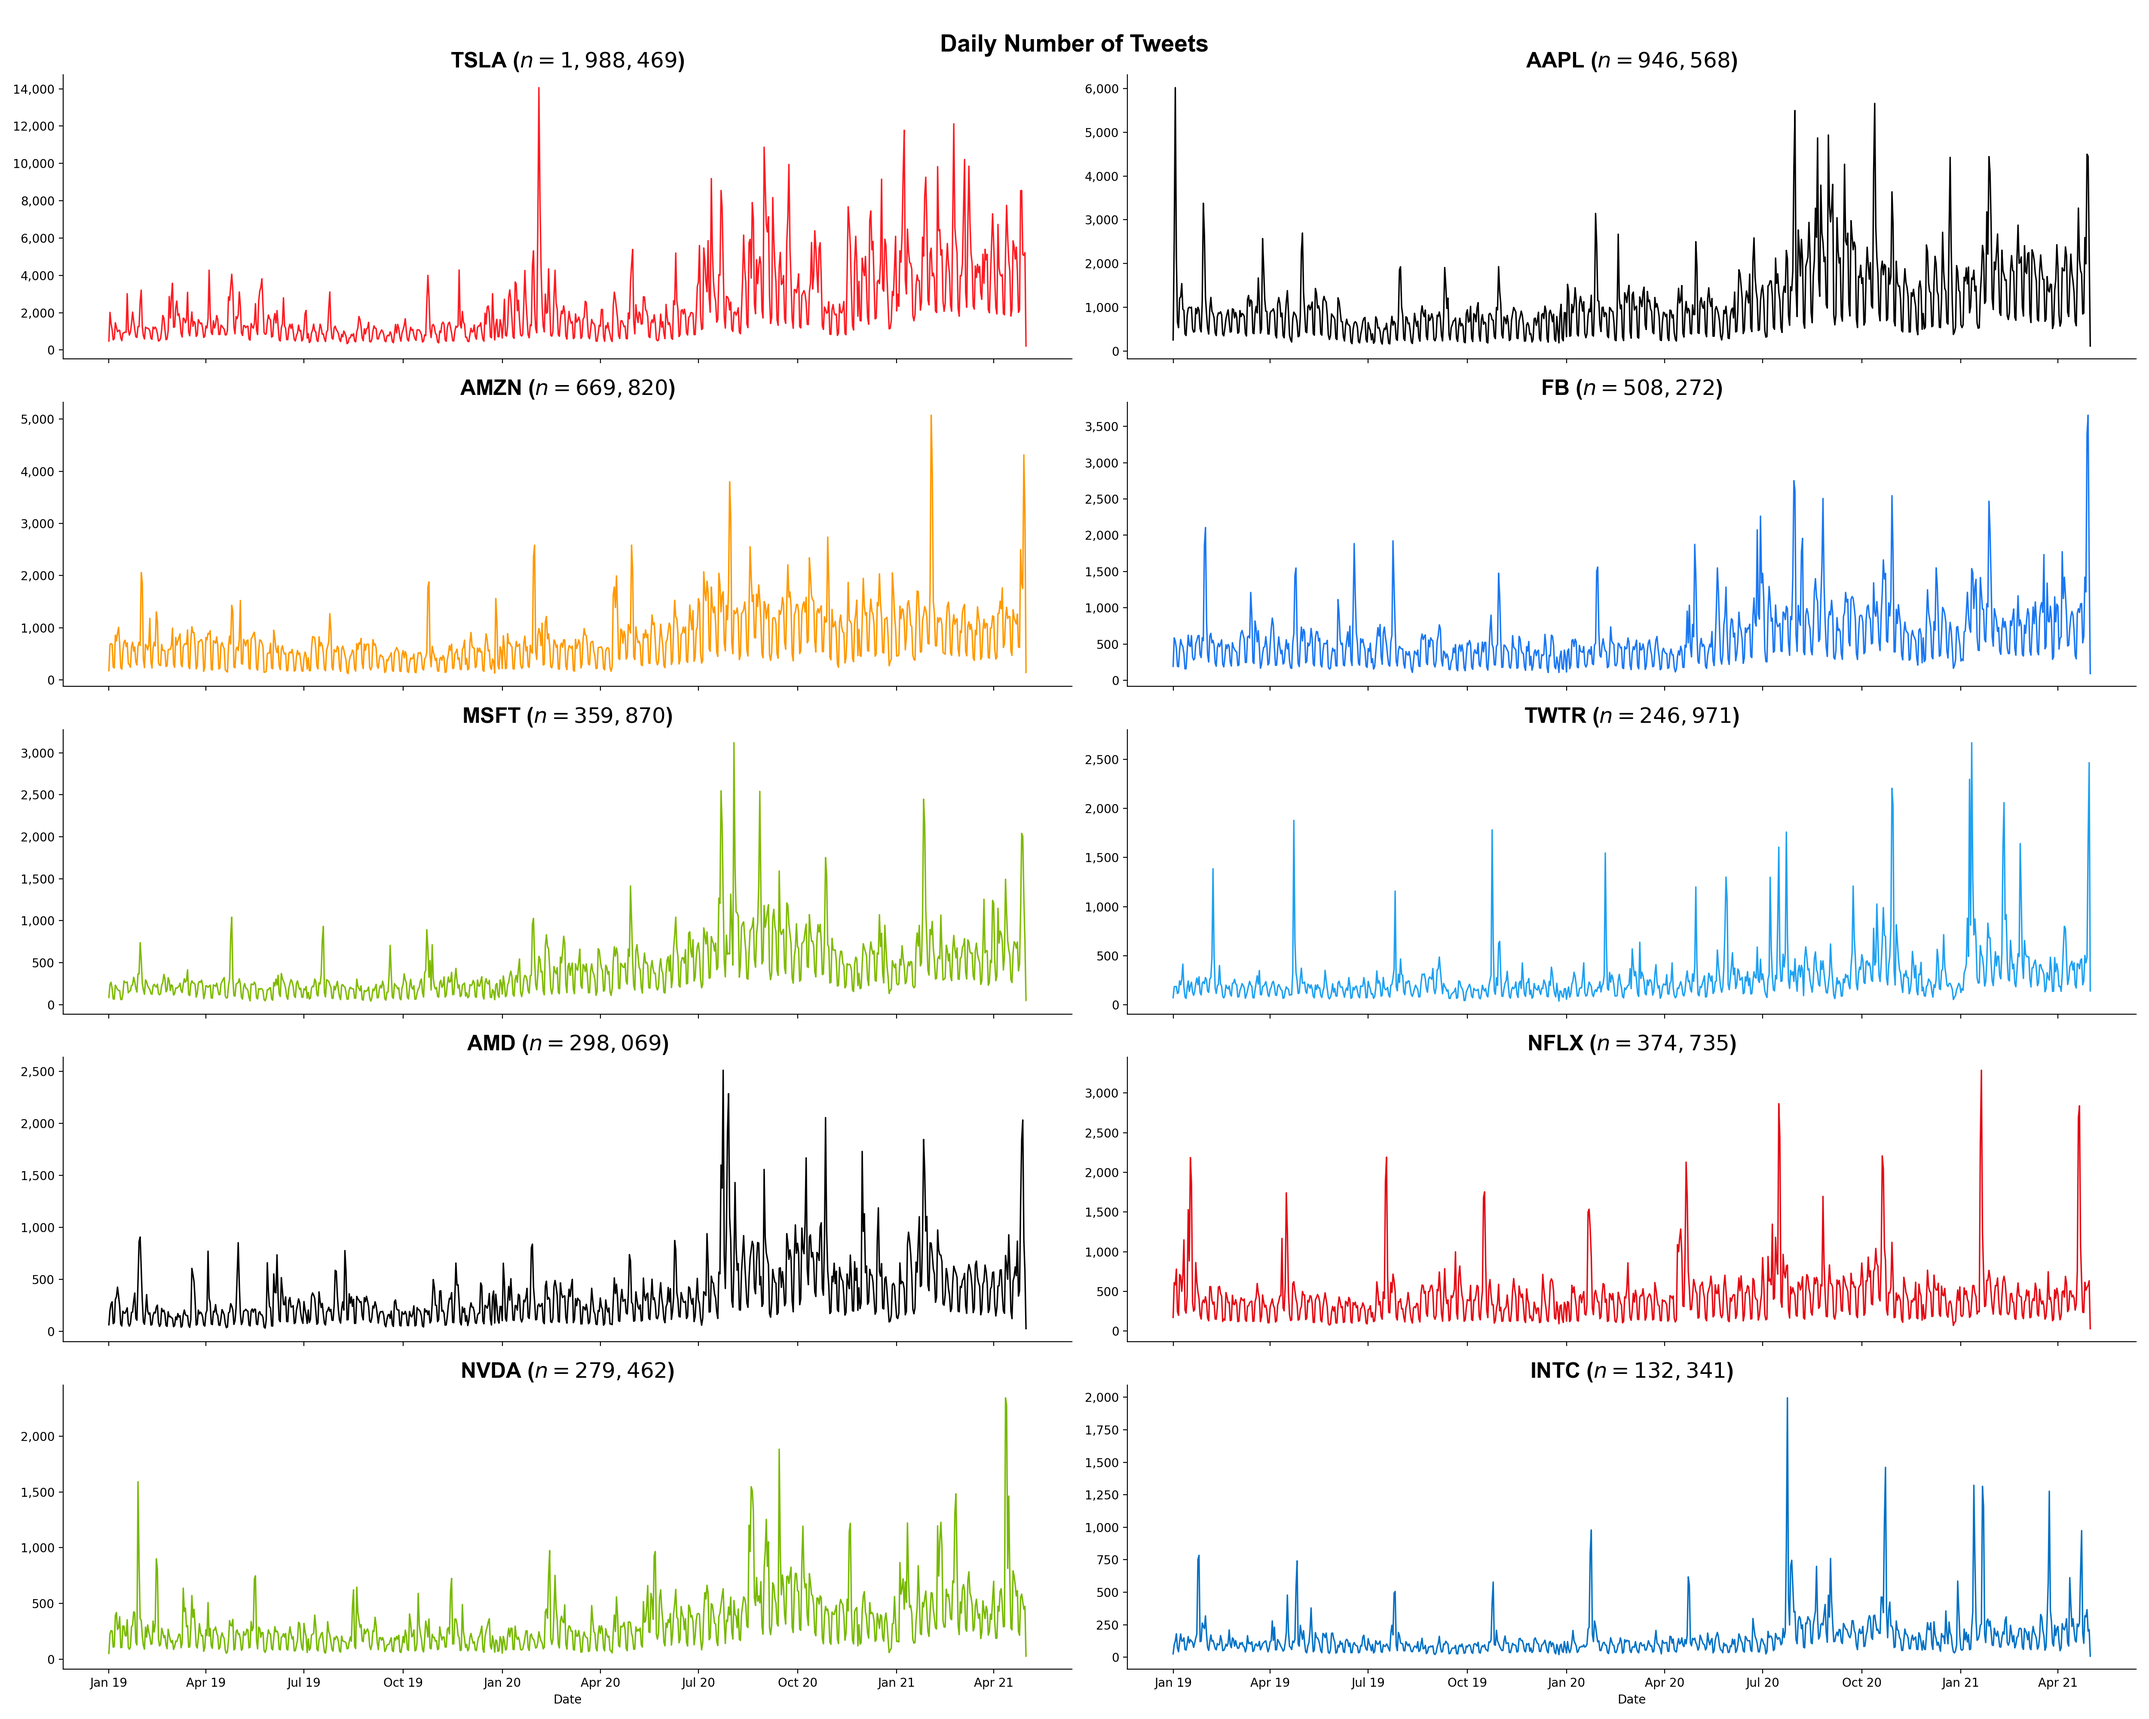
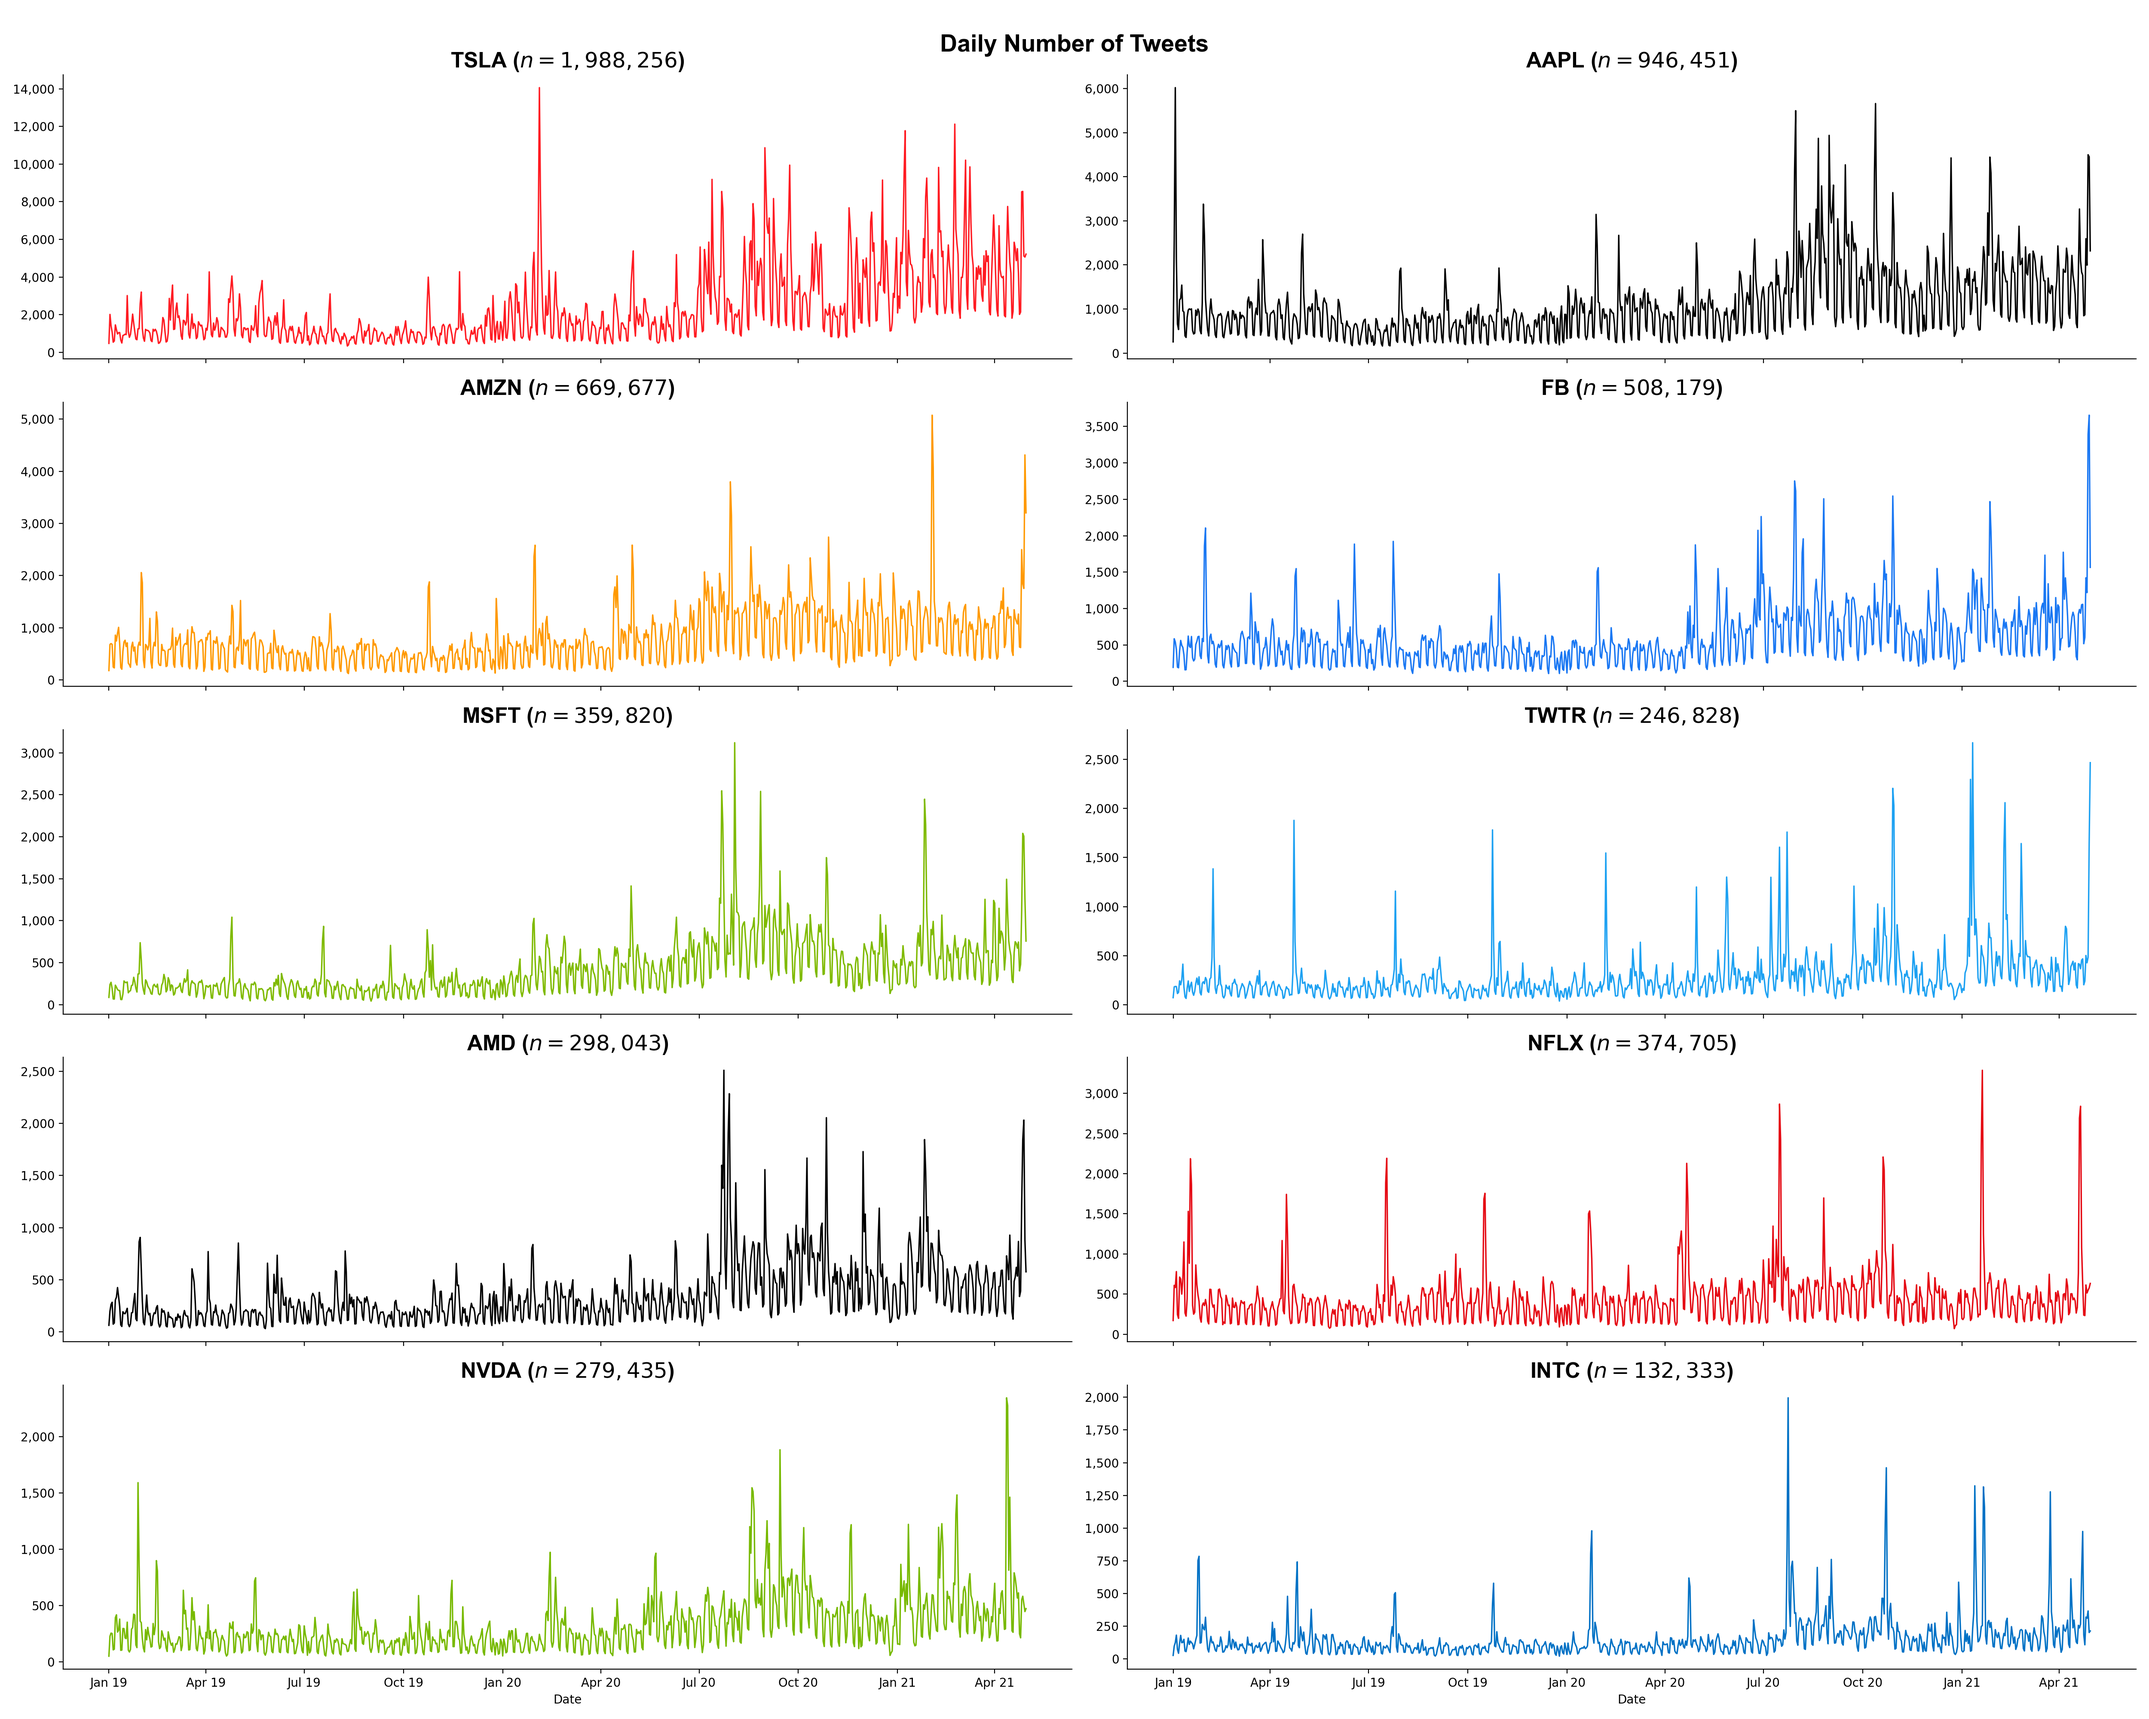
plot + yf

diff --git a/10_code/50_financialTS.py b/10_code/50_financialTS.py
@@ -1,0 +1,21 @@
+# %%
+import pandas as pd
+import matplotlib.pyplot as plt
+from matplotlib.ticker import FuncFormatter
+from matplotlib.dates import DateFormatter
+import seaborn as sns
+import yfinance as yf
+root_path = "../"
+tickers = ["TSLA", "AAPL", "AMZN", "FB", "MSFT", "TWTR", "AMD", "NFLX", "NVDA", "INTC"]
+
+#%%
+yfticker = yf.Ticker("TSLA")
+
+#%%
+(
+    yfticker
+    .history(start="2019-01-01", end="2021-04-30")
+    .reindex(
+        pd.DatetimeIndex(pd.date_range(start="2019-01-01", end="2021-04-30"))
+        )
+)

diff --git a/10_code/40_company_eda.py b/10_code/40_company_eda.py
@@ -21,12 +21,7 @@ df = pd.concat(dfs, axis=1).set_axis(tickers, axis=1)
 # %%
 # df = (df/df.iloc[0]).reset_index()  # Normalized to t=0
 df = df.reset_index()
-# %%
-fig, ax = plt.subplots(figsize=(20, 8))
-melt_df = df.melt(id_vars='created_at', value_name='num', var_name='ticker')
-melt_df.groupby('ticker').head(1)
-sns.lineplot(data=melt_df, x='created_at', y='num', hue='ticker', ax=ax, legend=False)
-
+df = df[~(df.created_at == pd.to_datetime("2021-05-01"))]
 
 #%%
 def k_formatter(x, pos):
